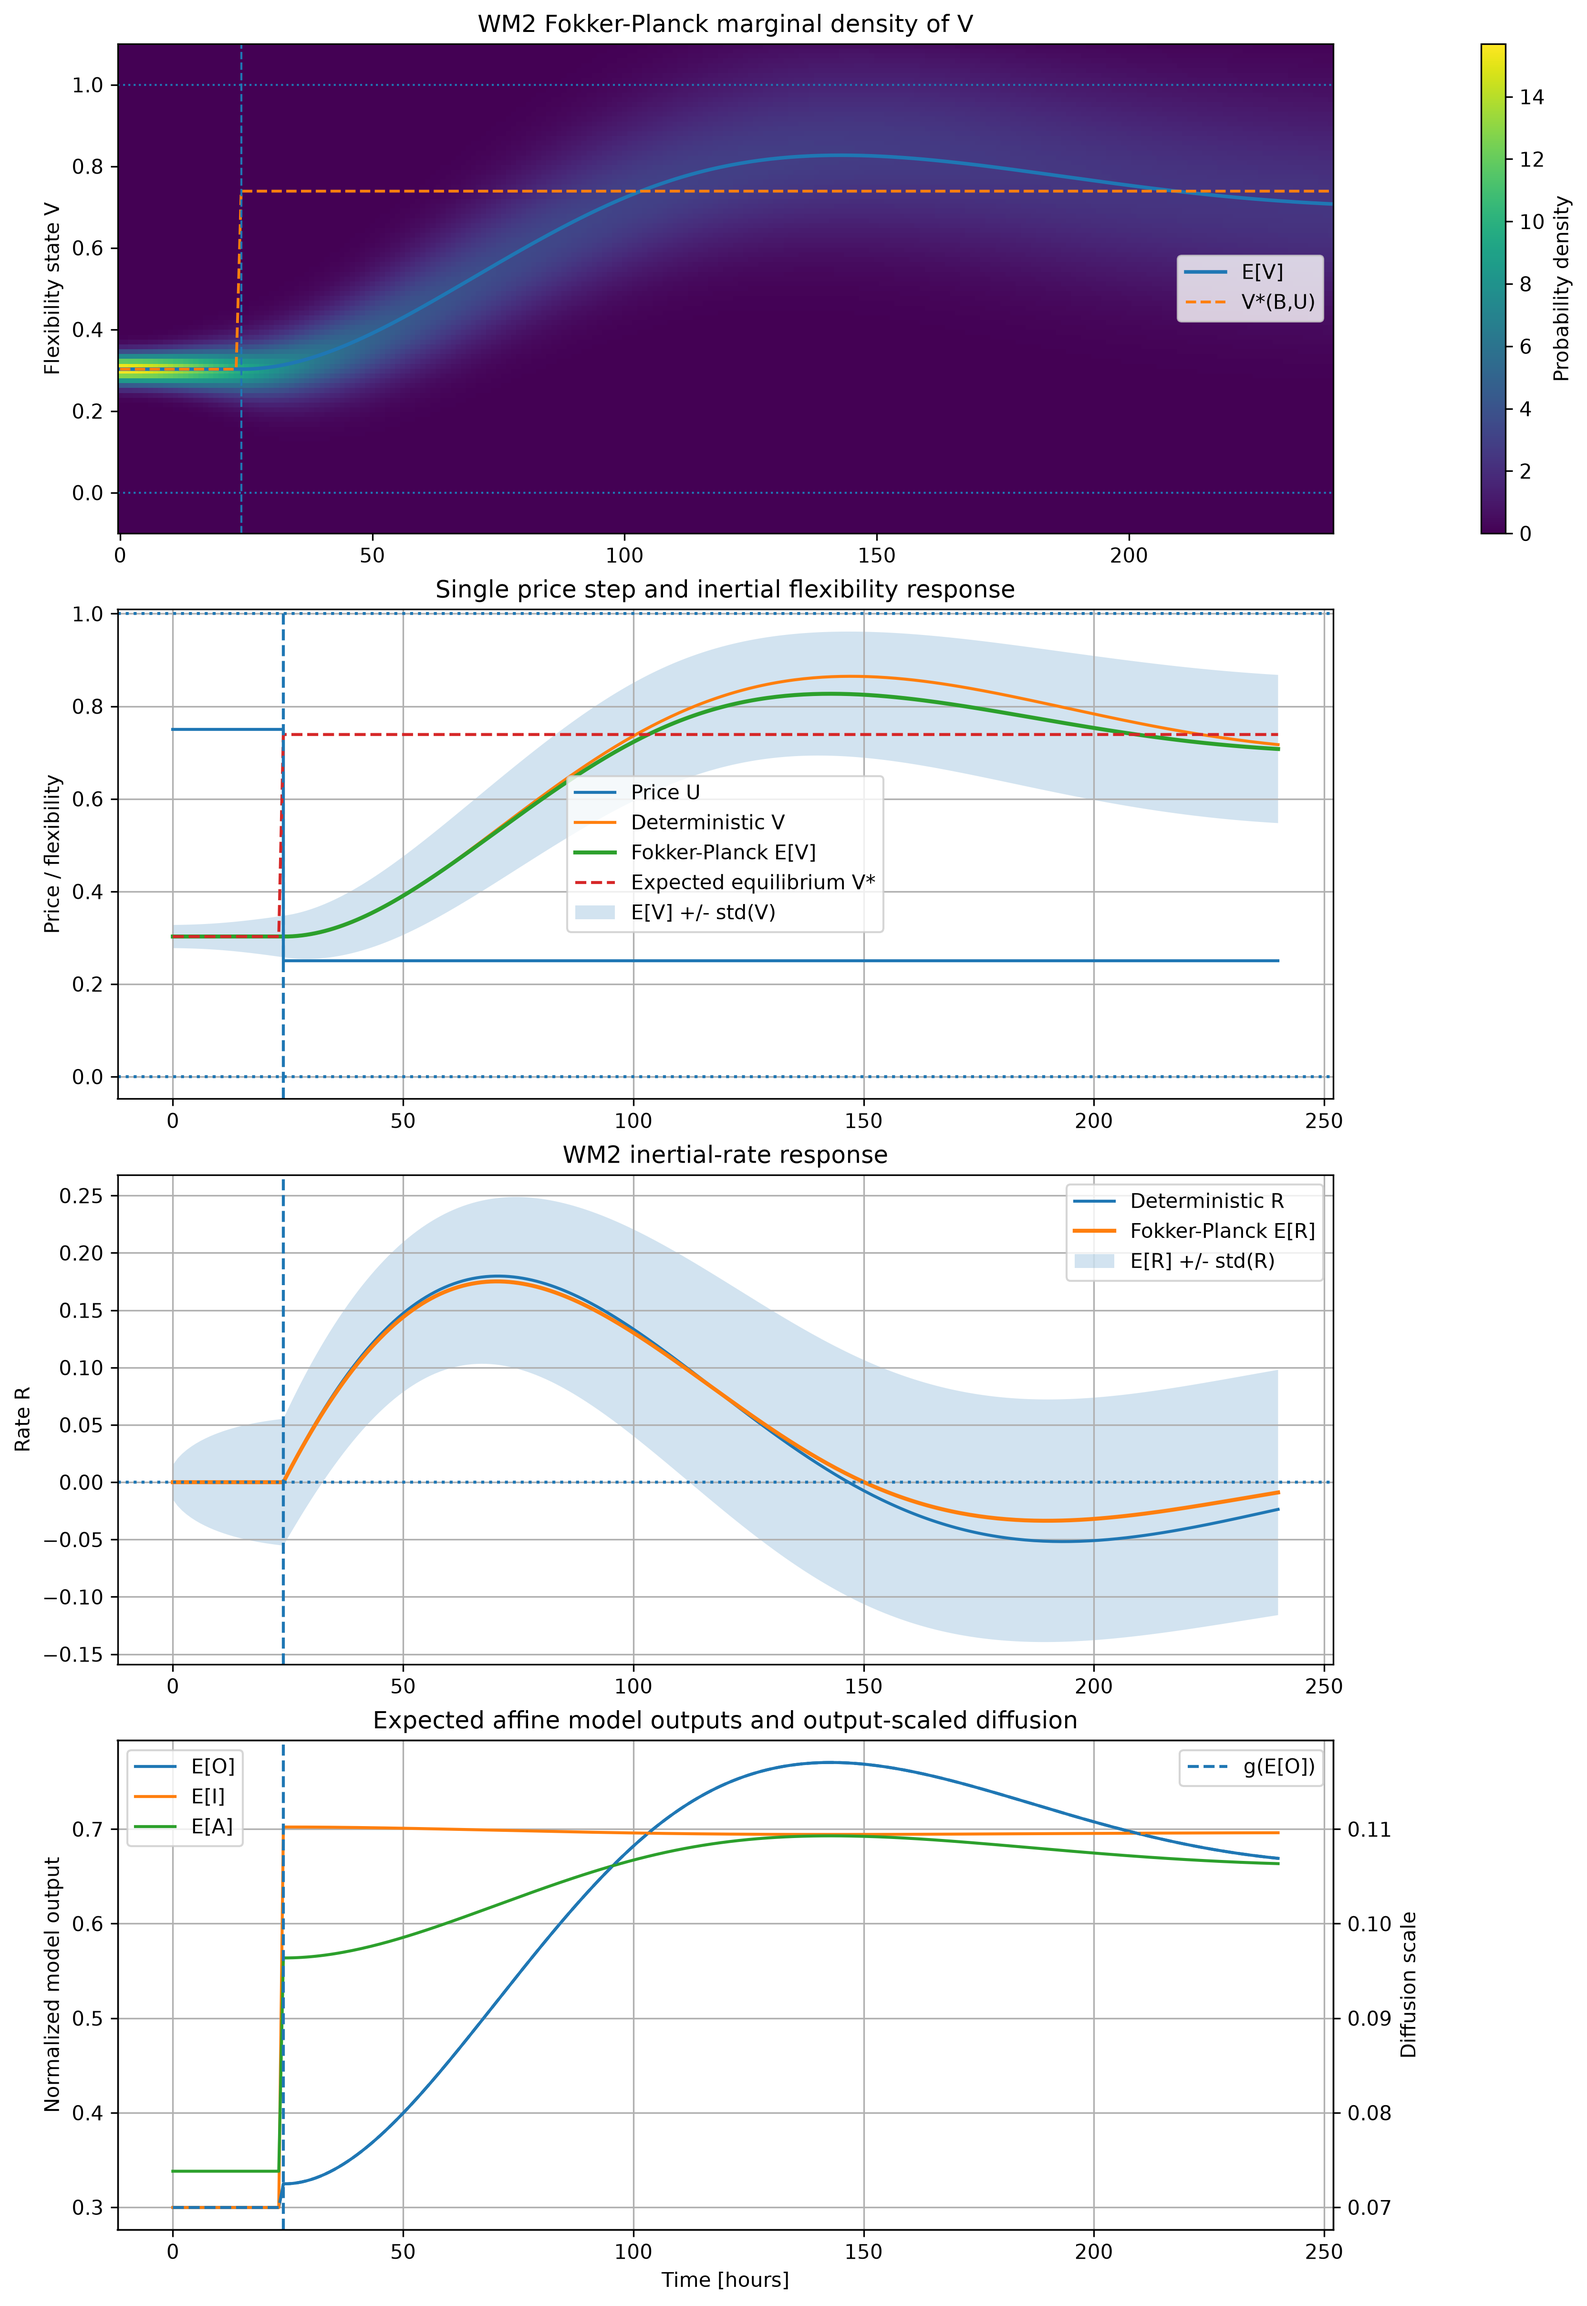
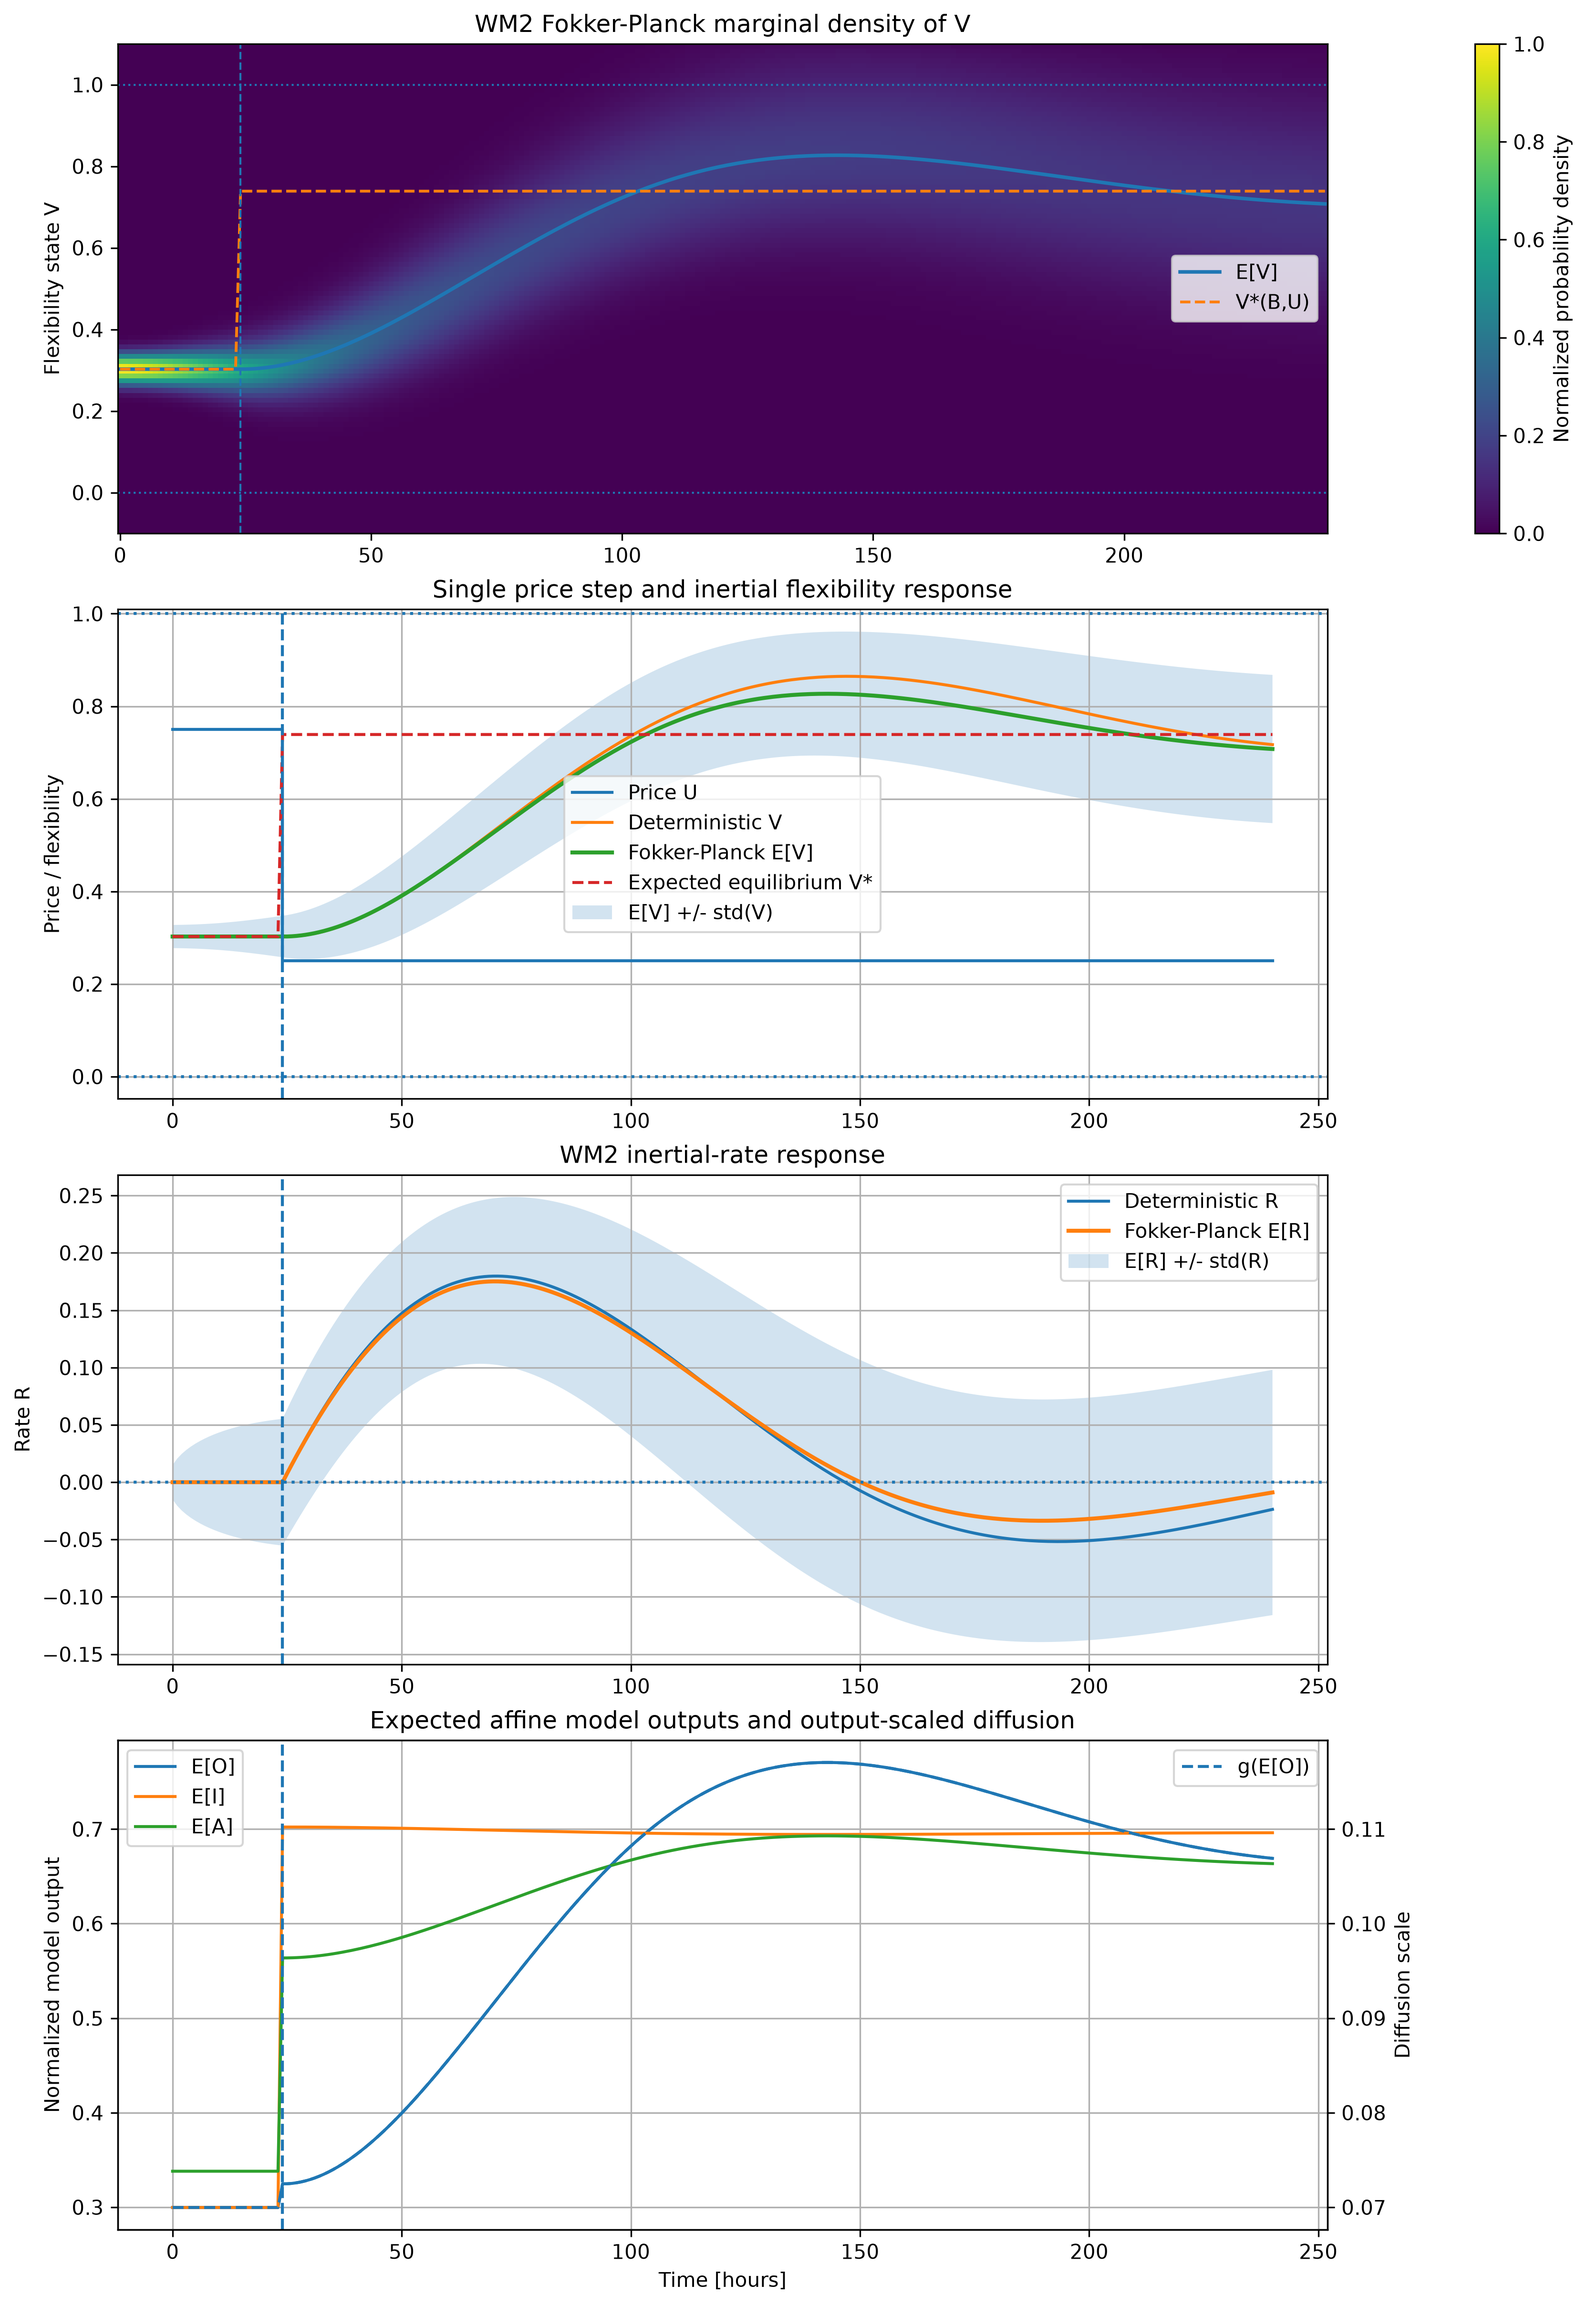
Fix BM1 import paths and plots
Updated the BM1 price-step executables to import from the current `src.model` and `src.tool` modules instead of the older `src.models` paths. This also refreshes the generated BM1 graph outputs and includes the regenerated FP price-step plot.

diff --git a/src/exe/BM1/FP_price_step.py b/src/exe/BM1/FP_price_step.py
@@ -11,8 +11,8 @@
 
 from pathlib import Path
 
-from src.models.BM1 import BM1
-from src.models.Simulate import Simulate
+from src.model.BM1 import BM1
+from src.tool.Simulate import Simulate
 import matplotlib.pyplot as plt
 import numpy as np
 

diff --git a/src/exe/BM1/EM_price_step.py b/src/exe/BM1/EM_price_step.py
@@ -9,8 +9,8 @@
 
 from pathlib import Path
 
-from src.models.BM1 import BM1
-from src.models.Simulate import Simulate
+from src.model.BM1 import BM1
+from src.tool.Simulate import Simulate
 import matplotlib.pyplot as plt
 import numpy as np
 
